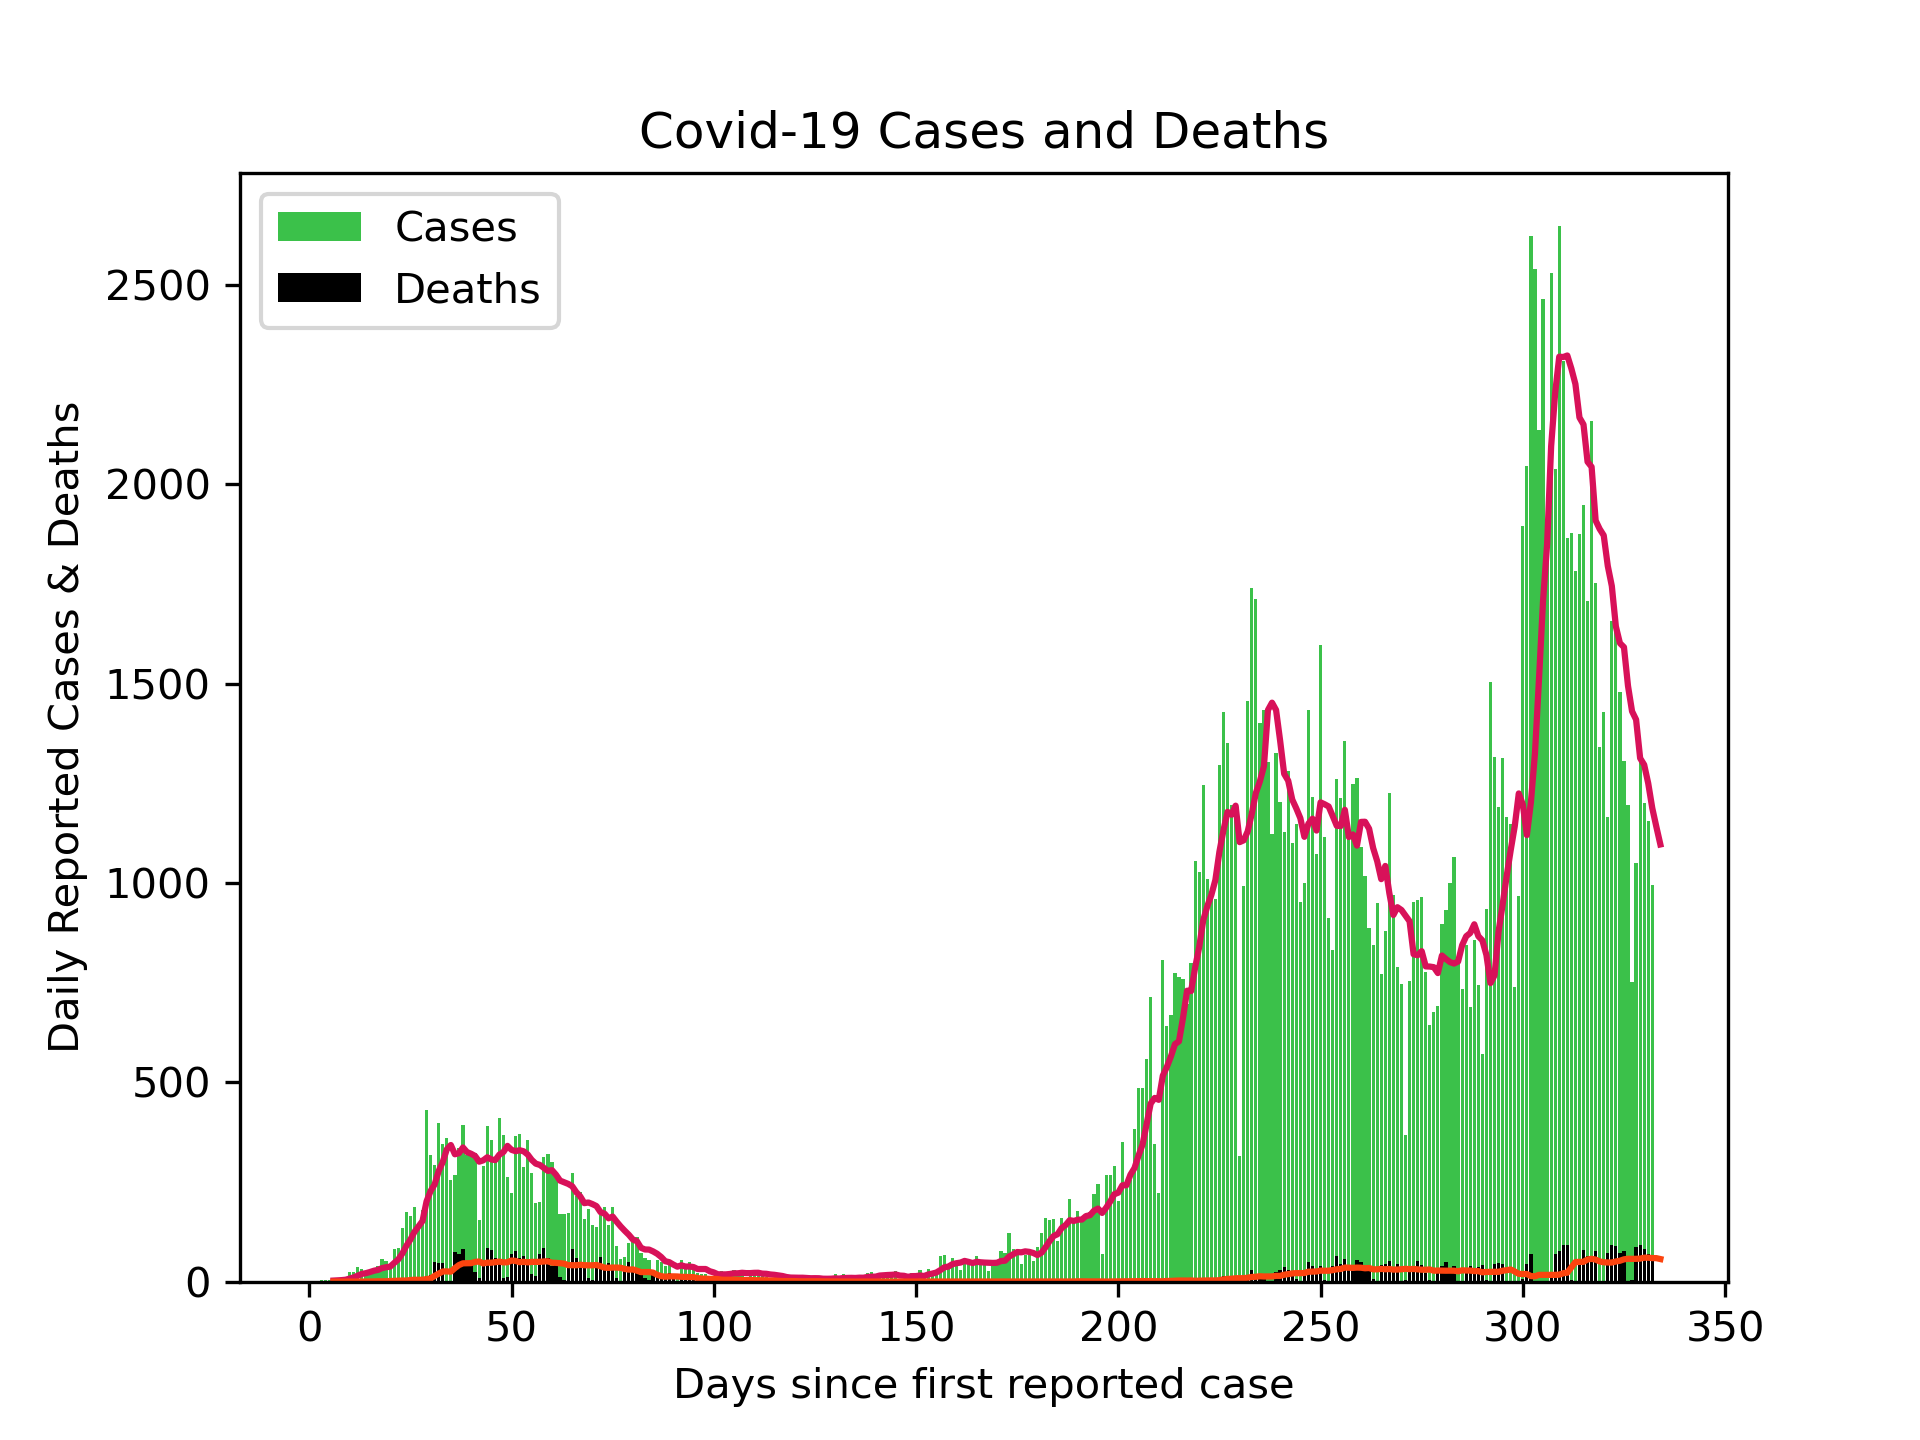
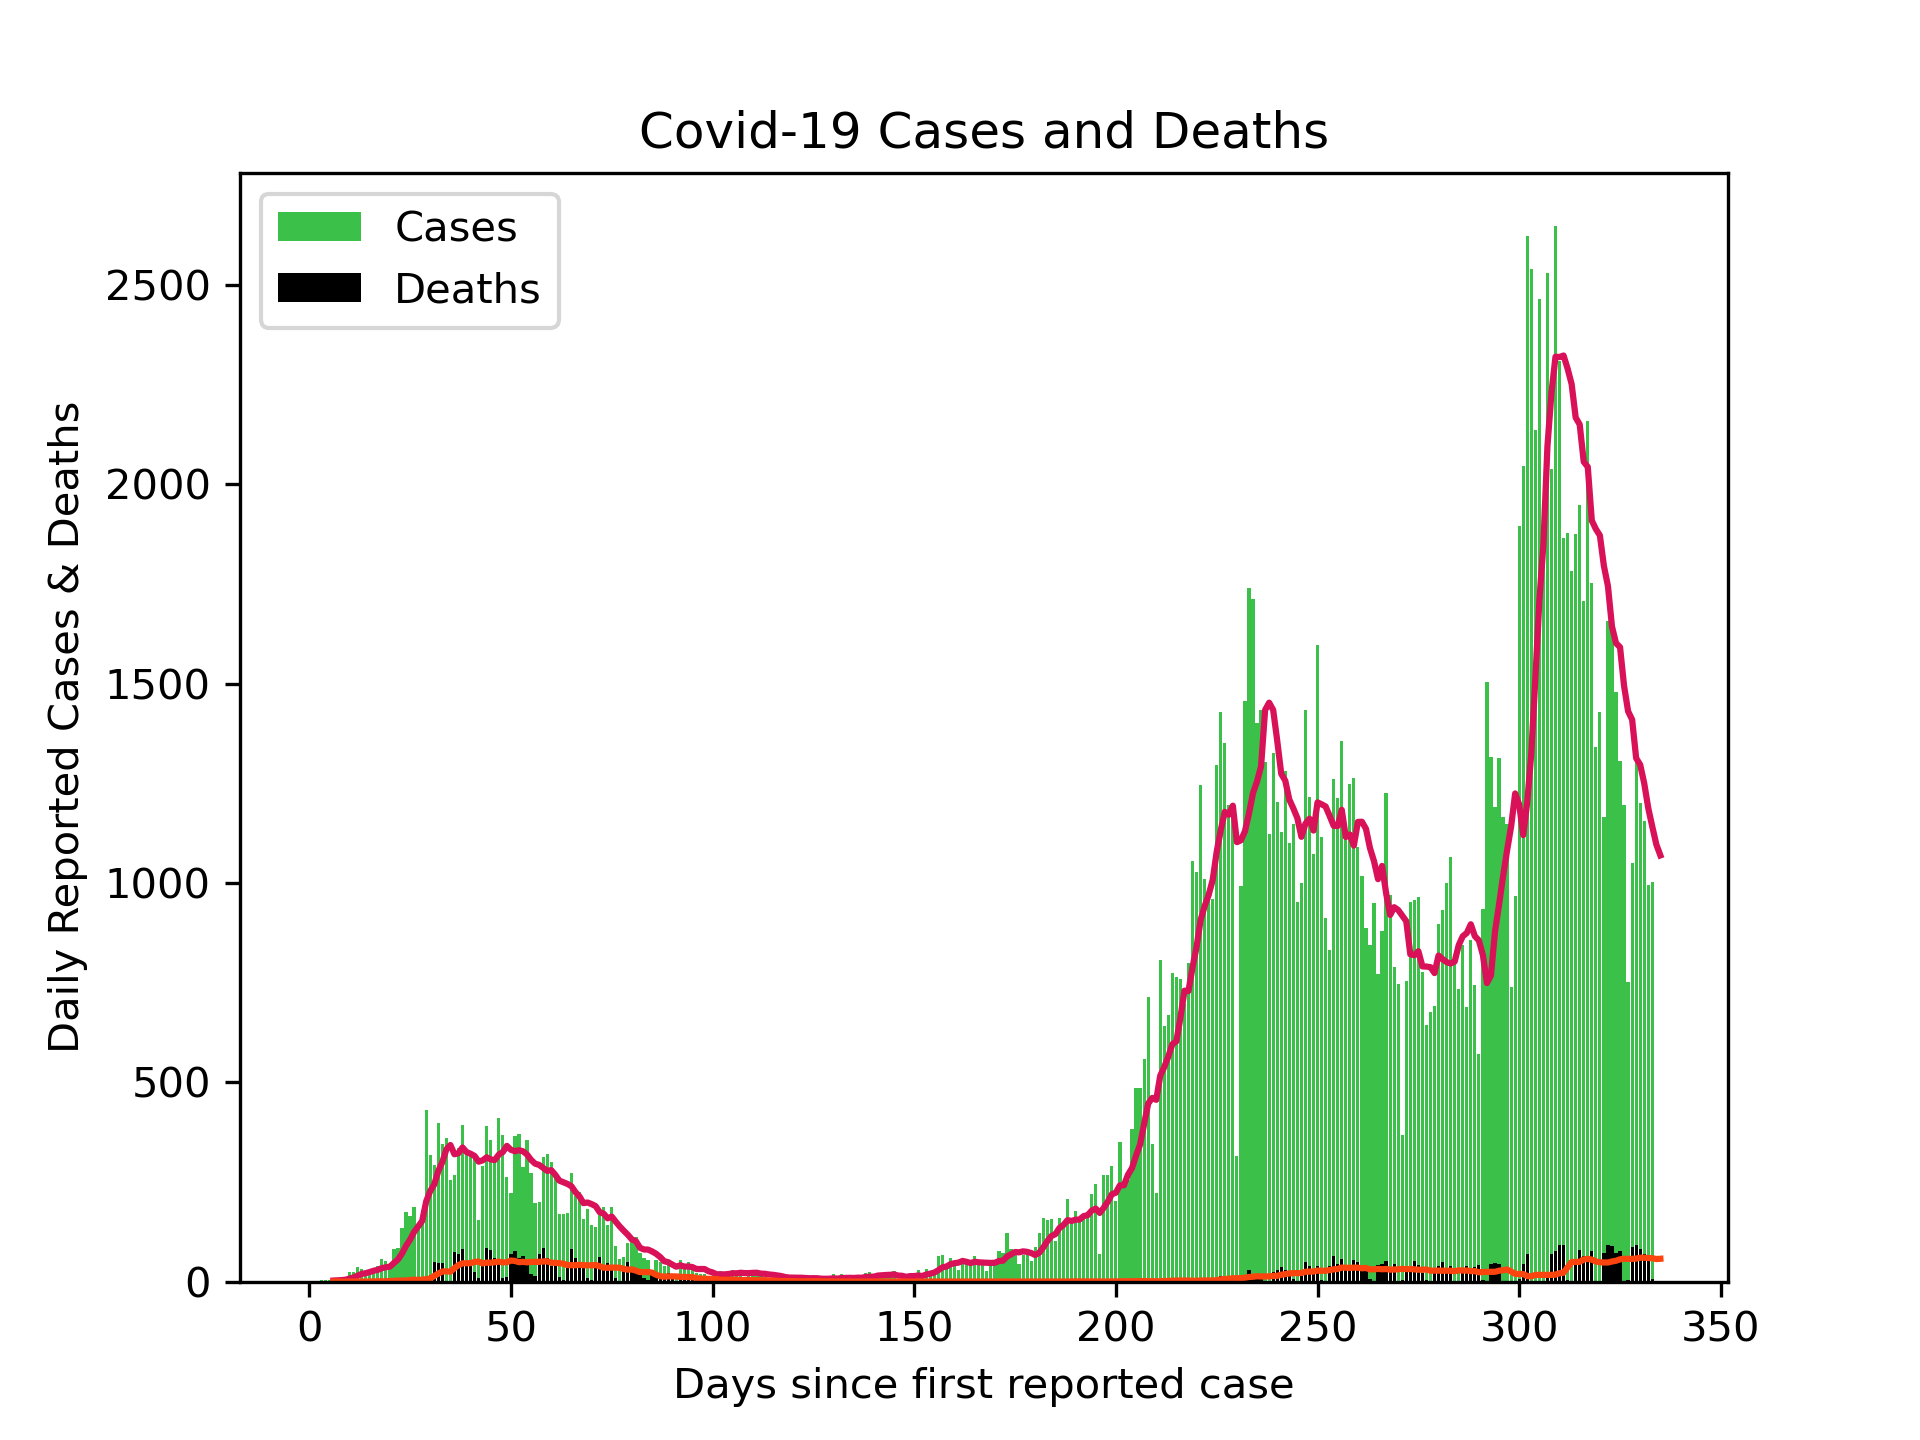
Updated Scottish cases 31/01/21

Changed region(s): [[0.4688, 0.1562, 0.875, 0.9375], [0.2188, 0.7812, 0.4062, 0.9375], [0.875, 0.9062, 0.9375, 0.9375]]

diff --git a/README.md b/README.md
@@ -1,4 +1,4 @@
-# Scottish Cases 30/01/21
+# Scottish Cases 31/01/21
 
 ![alt](scottish_cases.png)
 
